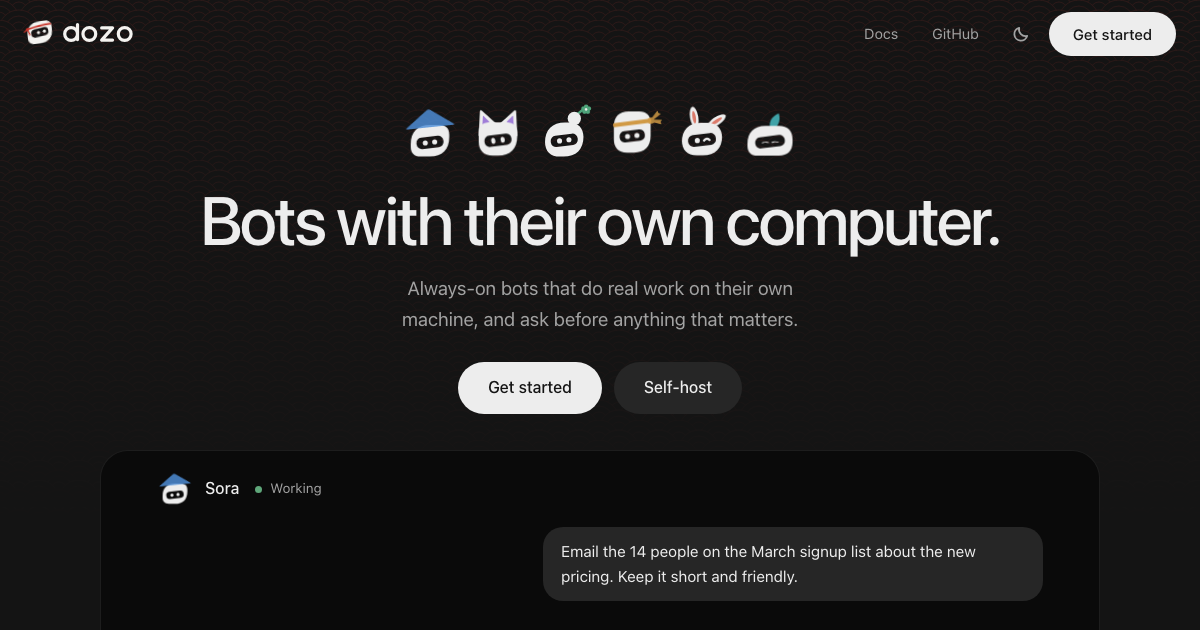
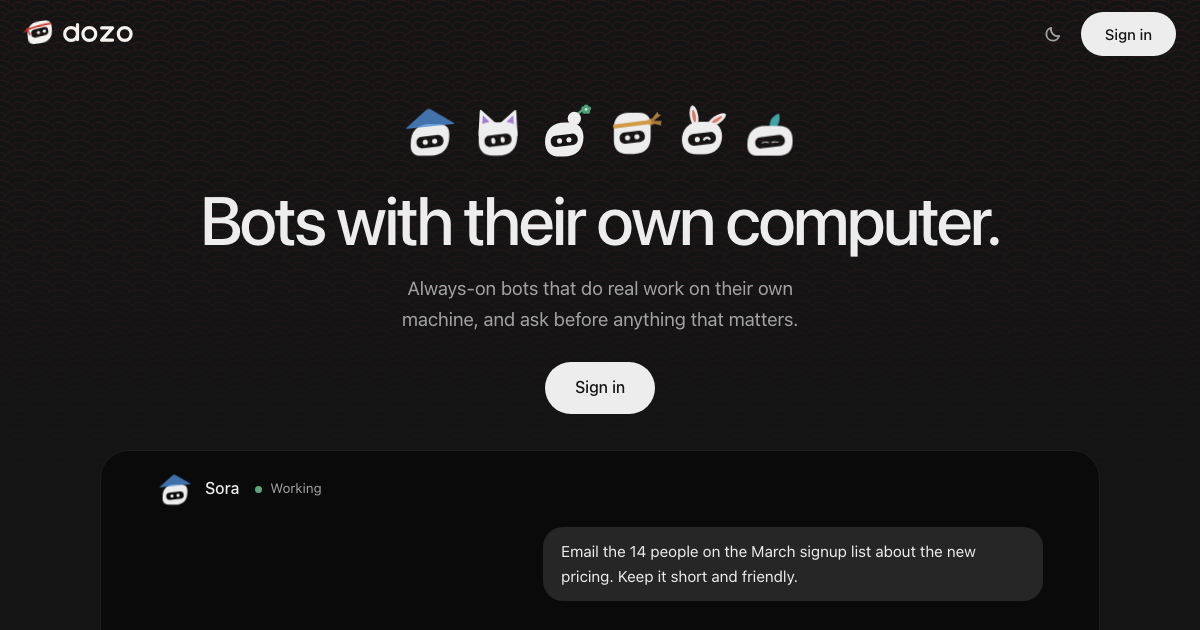
Landing: lead with the hosted product, keep open source second
The page sold self-hosting as a main promise next to the sign-in. Dozo is first a
product that runs on our servers, and its source is open. The strip now says both,
in that order: a hosted block that is plainly a placeholder (closed preview, plans
and pricing later; no price, form or payment link) and an open-source block. The
header and hero keep one call to action, Sign in.

The footer line about planned desktop and mobile apps is gone: a macOS app exists
but has no download yet. Under reduced motion the avatars' eyes no longer blink or
track. The social image is taken again.

diff --git a/dozo/landing/index.html b/dozo/landing/index.html
@@ -4,7 +4,7 @@
 <meta charset="utf-8">
 <meta name="viewport" content="width=device-width,initial-scale=1">
 <title>Dozo: bots with their own computer</title>
-<meta name="description" content="Dozo is an open-source workspace of always-on AI bots. Each bot works on its own computer and asks before anything that matters.">
+<meta name="description" content="Dozo is a workspace of always-on AI bots. Each bot works on its own computer and asks before anything that matters.">
 <meta name="robots" content="noindex">
 <meta name="color-scheme" content="dark light">
 <meta property="og:type" content="website">
@@ -25,7 +25,6 @@
 <header><div class="wrap top">
   <a class="lock" href="#main" aria-label="Dozo"><svg class="dlogo" viewBox="-2 4 219 56" width="109.5" height="28" aria-hidden="true"><g class="m"><g class="mark"><path class="ink" fill-rule="evenodd" d="M35 10L45 10C52.35 10 57 14.65 57 22L57 26C57 44.82 47.82 54 29 54L19 54C11.65 54 7 49.35 7 42L7 38C7 19.18 16.18 10 35 10ZM21.6 25.22L42.04 22.71C45.93 22.23 48.7 24.39 49.17 28.28L49.37 29.87C49.97 34.73 47.27 38.19 42.4 38.78L21.96 41.29C18.07 41.77 15.3 39.61 14.83 35.72L14.63 34.13C14.03 29.27 16.73 25.81 21.6 25.22Z"/><g class="eyes"><circle cx="25.95" cy="32.74" r="3.2" class="ink"/><circle cx="38.05" cy="31.26" r="3.2" class="ink"/></g></g><g class="band"><g class="tl tl1"><path fill="#C8372D" d="M6.94 22.82C6.89 23.09 6.71 23.9 6.6 24.44C6.5 24.97 6.39 25.51 6.29 26.05C6.19 26.59 6.09 27.13 6 27.68C5.91 28.22 5.82 28.76 5.74 29.3C5.65 29.85 5.57 30.39 5.5 30.94C5.42 31.48 5.35 32.03 5.28 32.57C5.21 33.12 5.15 33.66 5.09 34.21C5.03 34.76 4.95 35.58 4.92 35.86L6.22 34.74L7.2 36.14C7.24 35.88 7.37 35.08 7.46 34.55C7.55 34.01 7.65 33.48 7.75 32.96C7.85 32.43 7.95 31.9 8.06 31.37C8.16 30.85 8.28 30.32 8.39 29.8C8.51 29.27 8.62 28.75 8.75 28.23C8.87 27.71 8.99 27.19 9.12 26.67C9.25 26.15 9.39 25.63 9.53 25.12C9.66 24.6 9.88 23.83 9.95 23.57Z"/></g><g class="tl tl2"><path fill="#C8372D" d="M7.24 22.39C7.13 22.57 6.8 23.11 6.58 23.47C6.37 23.84 6.15 24.2 5.94 24.57C5.73 24.94 5.52 25.31 5.31 25.68C5.1 26.05 4.9 26.42 4.7 26.79C4.5 27.16 4.3 27.54 4.1 27.91C3.91 28.29 3.72 28.67 3.53 29.05C3.34 29.43 3.15 29.81 2.96 30.19C2.78 30.57 2.51 31.15 2.42 31.34L3.88 30.8L4.29 32.3C4.39 32.12 4.7 31.58 4.91 31.22C5.11 30.87 5.33 30.51 5.54 30.16C5.75 29.81 5.97 29.45 6.19 29.1C6.41 28.75 6.63 28.41 6.85 28.06C7.07 27.72 7.3 27.37 7.53 27.03C7.76 26.69 7.99 26.35 8.22 26.01C8.45 25.67 8.69 25.34 8.93 25C9.17 24.67 9.53 24.17 9.65 24.01Z"/></g><path fill="#C8372D" d="M10.82 21C25.73 17.96 40.65 16.19 55.57 15.71C55.67 15.62 56.38 17.23 56.73 19.08C40.84 19.52 24.94 21.42 9.05 24.77C7.78 28.03 8.96 24.17 10.82 21Z"/><path fill="#C8372D" d="M8.01 20.29L9.38 20.41C10.68 20.53 11.46 21.46 11.35 22.76L11.23 24.13C11.12 25.43 10.18 26.21 8.88 26.1L7.52 25.98C6.21 25.87 5.43 24.93 5.54 23.63L5.66 22.27C5.78 20.96 6.71 20.18 8.01 20.29Z"/></g></g><g class="word"><path class="ink" d="M76.2 32A16 16 0 1 0 108.2 32A16 16 0 1 0 76.2 32ZM82.6 32A9.6 9.6 0 1 1 101.8 32A9.6 9.6 0 1 1 82.6 32ZM105 10H105A3.2 3.2 0 0 0 101.8 13.2V43.2A3.2 3.2 0 0 0 105 46.4H105A3.2 3.2 0 0 0 108.2 43.2V13.2A3.2 3.2 0 0 0 105 10Z"/><path class="ink" d="M112.68 32A16 16 0 1 0 144.68 32A16 16 0 1 0 112.68 32ZM119.08 32A9.6 9.6 0 1 1 138.28 32A9.6 9.6 0 1 1 119.08 32Z"/><path class="ink" d="M153.32 16.64L175.08 16.64A3.2 3.2 0 0 1 175.08 23.04L153.32 23.04A3.2 3.2 0 0 1 153.32 16.64ZM177.465 21.974L155.705 46.294A3.2 3.2 0 0 1 150.935 42.026L172.695 17.706A3.2 3.2 0 0 1 177.465 21.974ZM153.32 40.96L175.08 40.96A3.2 3.2 0 0 1 175.08 47.36L153.32 47.36A3.2 3.2 0 0 1 153.32 40.96Z"/><path class="ink" d="M183.4 32A16 16 0 1 0 215.4 32A16 16 0 1 0 183.4 32ZM189.8 32A9.6 9.6 0 1 1 209 32A9.6 9.6 0 1 1 189.8 32Z"/></g></svg></a>
   <nav class="nav" aria-label="Main">
-    <a class="link" href="#self-host">Self-host</a>
     <button class="tgl" id="theme" type="button" aria-label="Switch theme"><svg class="moon" viewBox="0 0 16 16"><path d="M13.5 9.6A5.8 5.8 0 0 1 6.4 2.5a5.8 5.8 0 1 0 7.1 7.1Z"/></svg><svg class="sun" viewBox="0 0 16 16"><circle cx="8" cy="8" r="2.8"/><path d="M8 1.5v1.4M8 13.1v1.4M1.5 8h1.4M13.1 8h1.4M3.4 3.4l1 1M11.6 11.6l1 1M3.4 12.6l1-1M11.6 4.4l1-1"/></svg></button>
     <a class="pill w" href="https://dozo.ssilistre.dev/sign-in">Sign in</a>
   </nav>
@@ -43,7 +42,7 @@
   </div>
   <h1 id="h1">Bots with their own computer.</h1>
   <p class="lede">Always-on bots that do real work on their own machine, and ask before anything that matters.</p>
-  <div class="cta"><a class="pill w lg" href="https://dozo.ssilistre.dev/sign-in">Sign in</a><a class="pill lg" href="#self-host">Self-host</a></div>
+  <div class="cta"><a class="pill w lg" href="https://dozo.ssilistre.dev/sign-in">Sign in</a></div>
 
   <div class="frame-app" id="hero" aria-hidden="true" inert>
     <div class="ft"><h2><span class="bot av hd" data-bot="sora" data-state="working"><svg viewBox="0 0 64 64"></svg></span>Sora<span class="status"><span class="dot" id="hd"></span><span id="ht">Working</span></span></h2></div>
@@ -84,16 +83,16 @@
       </div></div>
     </article>
   </div>
-  <article class="strip" id="self-host">
-    <div><h2 class="ih">Yours to run.</h2><p>Open source and self-hostable. Bring any compatible model API, or a model on your own machine.</p></div>
-      </article>
+  <article class="strip">
+    <div><h2 class="ih">We run it for you.</h2><p>Dozo runs on our servers, in a closed preview for now. Plans and pricing come later.</p></div>
+    <div id="self-host"><h2 class="ih">Open source.</h2><p>Apache-2.0. Run it on your own server, with any compatible model API or a model on your own machine.</p></div>
+  </article>
 </section>
 
 <section class="close wrap" aria-labelledby="go">
   <span class="kana" lang="ja" aria-hidden="true">どうぞ</span>
   <h2 class="big" id="go">Go ahead.</h2>
   <div class="cta"><a class="pill w lg" href="https://dozo.ssilistre.dev/sign-in">Sign in</a></div>
-  <small>On the web today. Desktop and mobile apps are planned.</small>
 </section>
 </main>
 

diff --git a/dozo/landing/landing.css b/dozo/landing/landing.css
@@ -68,8 +68,6 @@ main,header,footer{position:relative;z-index:1}
  .lock:hover .eyes{transform:translate(var(--ex,3.4px),var(--ey,0px))}
 }
 .nav{display:flex;align-items:center;gap:6px}
-.nav .link{display:inline-flex;align-items:center;height:44px;padding:0 14px}
-.nav .link:hover{color:var(--text)}
 .tgl{width:44px;height:44px;border-radius:50%;display:flex;align-items:center;justify-content:center;color:var(--muted)}.tgl:hover{color:var(--text)}
 .tgl svg{width:18px;height:18px;fill:none;stroke:currentColor;stroke-width:1.6;stroke-linecap:round;stroke-linejoin:round}
 .tgl .sun{display:none}:root[data-theme="light"] .tgl .sun{display:block}:root[data-theme="light"] .tgl .moon{display:none}
@@ -133,7 +131,7 @@ h1{font-size:clamp(38px,6.2vw,68px);line-height:1.05;font-weight:500;letter-spac
 .anim .list{transition:opacity .6s}.anim .list.out{opacity:0}
 .li.done .d,.li.done b{opacity:.55}
 .pill.ok{background:transparent;box-shadow:inset 0 0 0 1px var(--line);color:var(--muted)}
-.strip{margin-top:30px;background:var(--raise);border-radius:28px;padding:32px 40px}
+.strip{margin-top:30px;background:var(--raise);border-radius:28px;padding:32px 40px;display:grid;grid-template-columns:1fr 1fr;gap:28px 40px}
 
 h2.big{font-size:clamp(30px,4.4vw,46px);line-height:1.08;font-weight:500;letter-spacing:-.03em;text-wrap:balance}
 
@@ -141,7 +139,6 @@ h2.big{font-size:clamp(30px,4.4vw,46px);line-height:1.08;font-weight:500;letter-
 .close{text-align:center;padding:44px 0 48px}
 .close .kana{display:block;font-size:14px;margin-bottom:14px}
 .close .cta{margin-top:24px}
-.close small{display:block;margin-top:18px;color:var(--quiet);font-size:13.5px}
 footer{border-top:1px solid var(--line);padding:20px 0 32px}
 .fin{display:flex;align-items:center;justify-content:space-between;gap:24px;flex-wrap:wrap}
 .fin nav{display:flex;gap:6px;flex-wrap:wrap}.fin nav a{display:inline-flex;align-items:center;height:44px;padding:0 14px}
@@ -150,13 +147,13 @@ footer{border-top:1px solid var(--line);padding:20px 0 32px}
 
 @media (max-width:900px){
  .pair{grid-template-columns:minmax(0,1fr)}
- .strip{padding:28px}
+ .strip{padding:28px;grid-template-columns:minmax(0,1fr)}
  .frame-app{padding:2px 28px 26px;border-radius:24px}
  .idea .vg{height:auto}
 }
 @media (max-width:560px){
  .wrap{width:min(1200px,100% - 40px)}
- .nav .link{display:none}.top{height:64px}
+ .top{height:64px}
  .hero{padding-top:28px}.crew{gap:8px;margin-bottom:22px}.av.xl{width:44px;height:44px}
  .cta .pill{flex:1 1 140px}
  .frame-app{padding:0 20px 22px;margin-top:36px}

diff --git a/dozo/landing/landing.js b/dozo/landing/landing.js
@@ -142,5 +142,6 @@ function tick(t){
   }
   requestAnimationFrame(tick);
 }
-measure();requestAnimationFrame(tick);
+// Reduced motion: the eyes stay as drawn, with no tracking, glance or blink.
+measure();if(!reduce)requestAnimationFrame(tick);
 });

diff --git a/dozo/LAUNCH-CHECKLIST.md b/dozo/LAUNCH-CHECKLIST.md
@@ -54,7 +54,9 @@ placeholders are replaced.
 - [ ] **Billing, OAuth and listing names** (blocks launch if the feature is on). Create our Stripe
       products, prices and names (upstream billing code is `apps/api/src/billing.ts`; use env
       configuration, never code edits). Set our names in OAuth consent screens, the Slack, Discord and
-      Telegram apps and the OpenRouter listing.
+      Telegram apps and the OpenRouter listing. Owner's decision: the product is open source and a
+      hosted SaaS that runs on our servers; payment is not connected yet, so the landing page holds
+      a placeholder for the hosted plan (`dozo/landing/README.md`).
 - [ ] **Android build name** (blocks launch if the Android build is offered). Publish the APK as
       `dozo.apk` under the release tag the download URL names.
 - [ ] **Third-party catalog branding** (decision). The xAI/Grok plugin catalog and import text name

diff --git a/dozo/landing/README.md b/dozo/landing/README.md
@@ -15,5 +15,8 @@ Closed pre-release state, to undo at launch:
 - No GitHub link is shown because the repository is not published. When it is, add "GitHub"
   and "Licence" links back to the header and footer navs and let "Self-host" point at
   `docs/self-host.md` in the repository.
+- Hosted plan placeholder: the "We run it for you." block says only that hosted Dozo is in a
+  closed preview and that plans and pricing come later. It has no price, plan table, form or
+  payment link on purpose. Rewrite it when pricing is set and payment is connected.
 - The page claims only what ships. The local-model panel is gone because the catalog is empty
   (`dozo/README.md`, "Status and known limits"); bring it back when models are listed.
